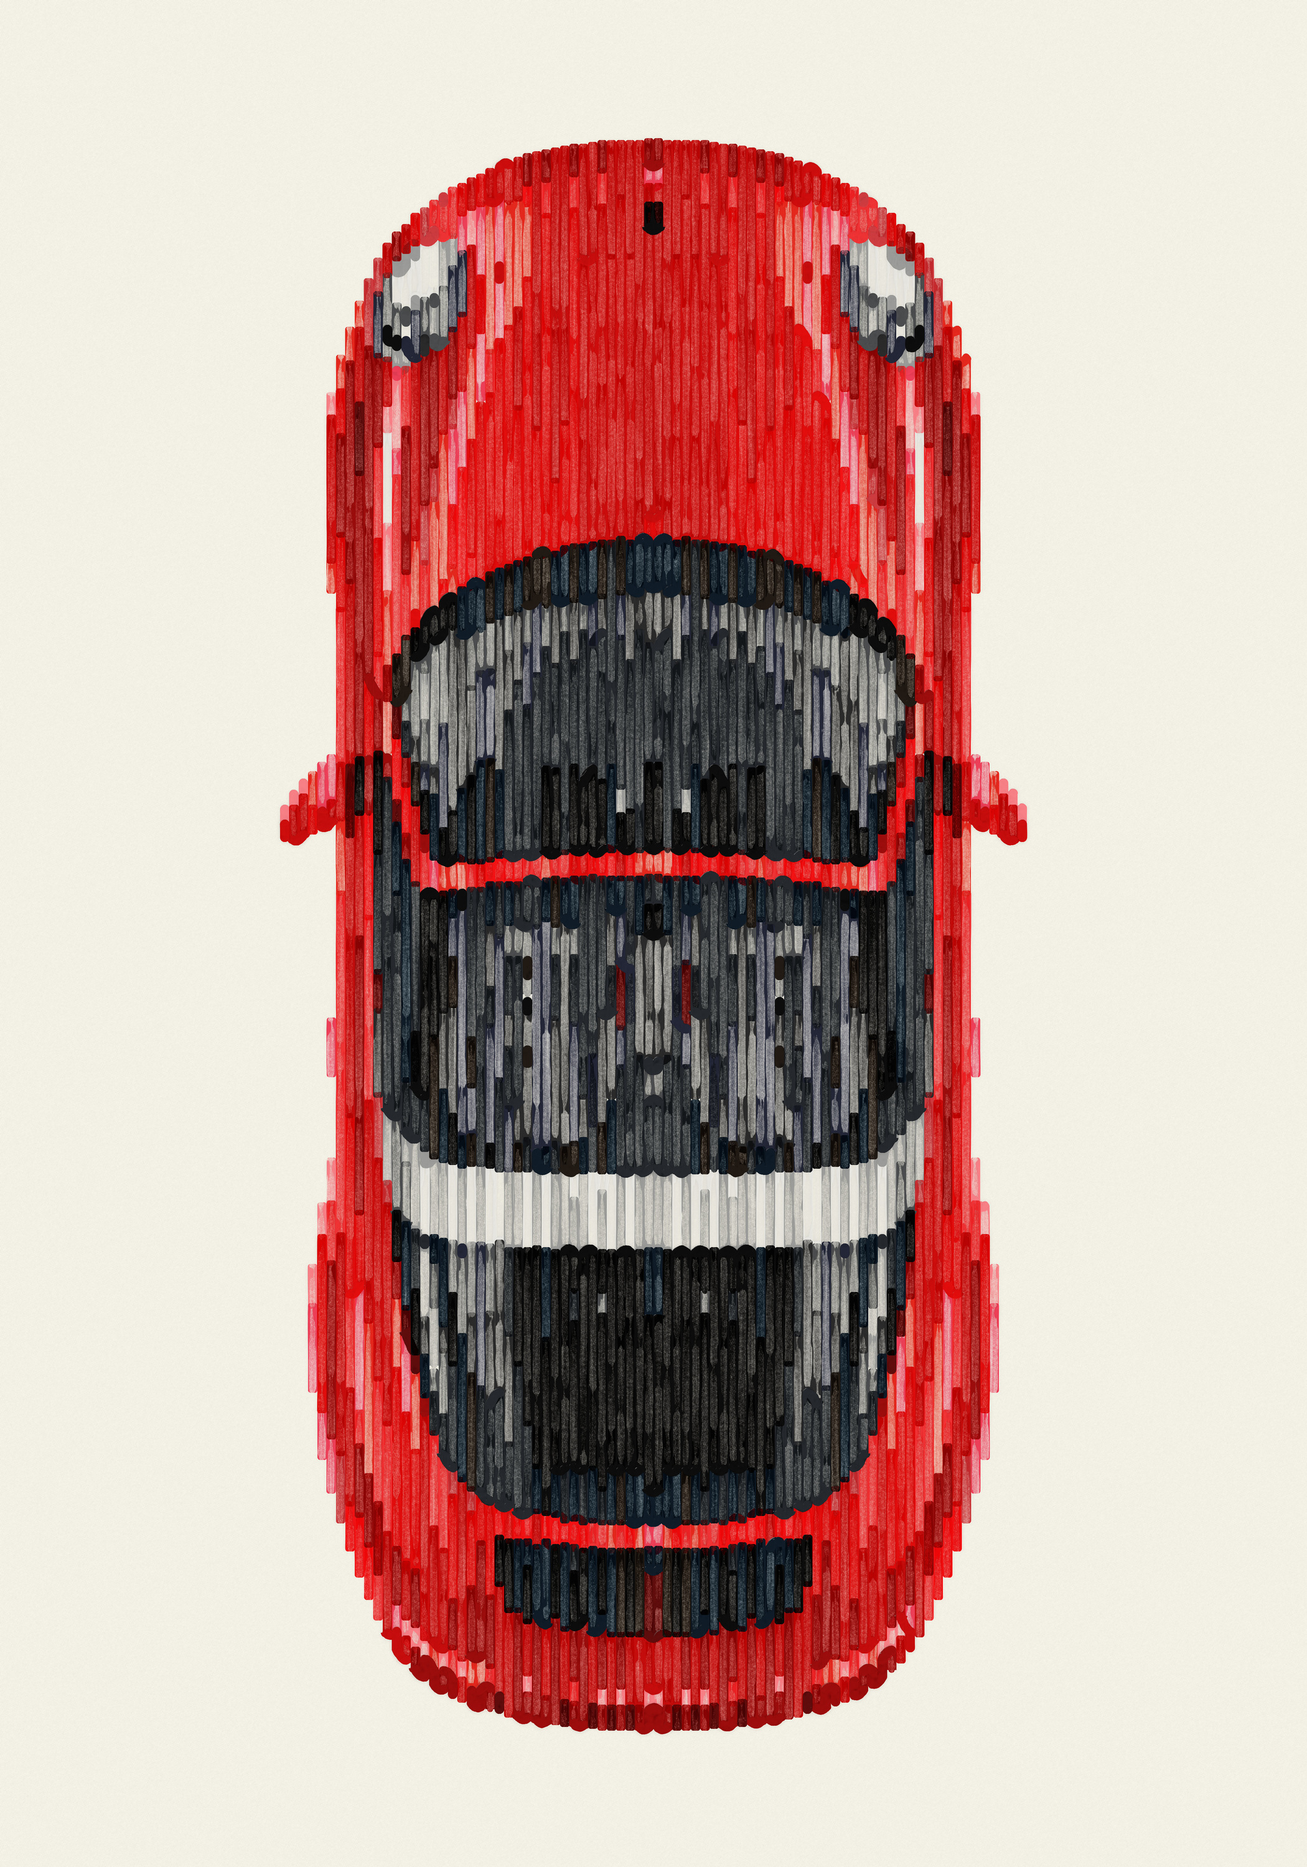
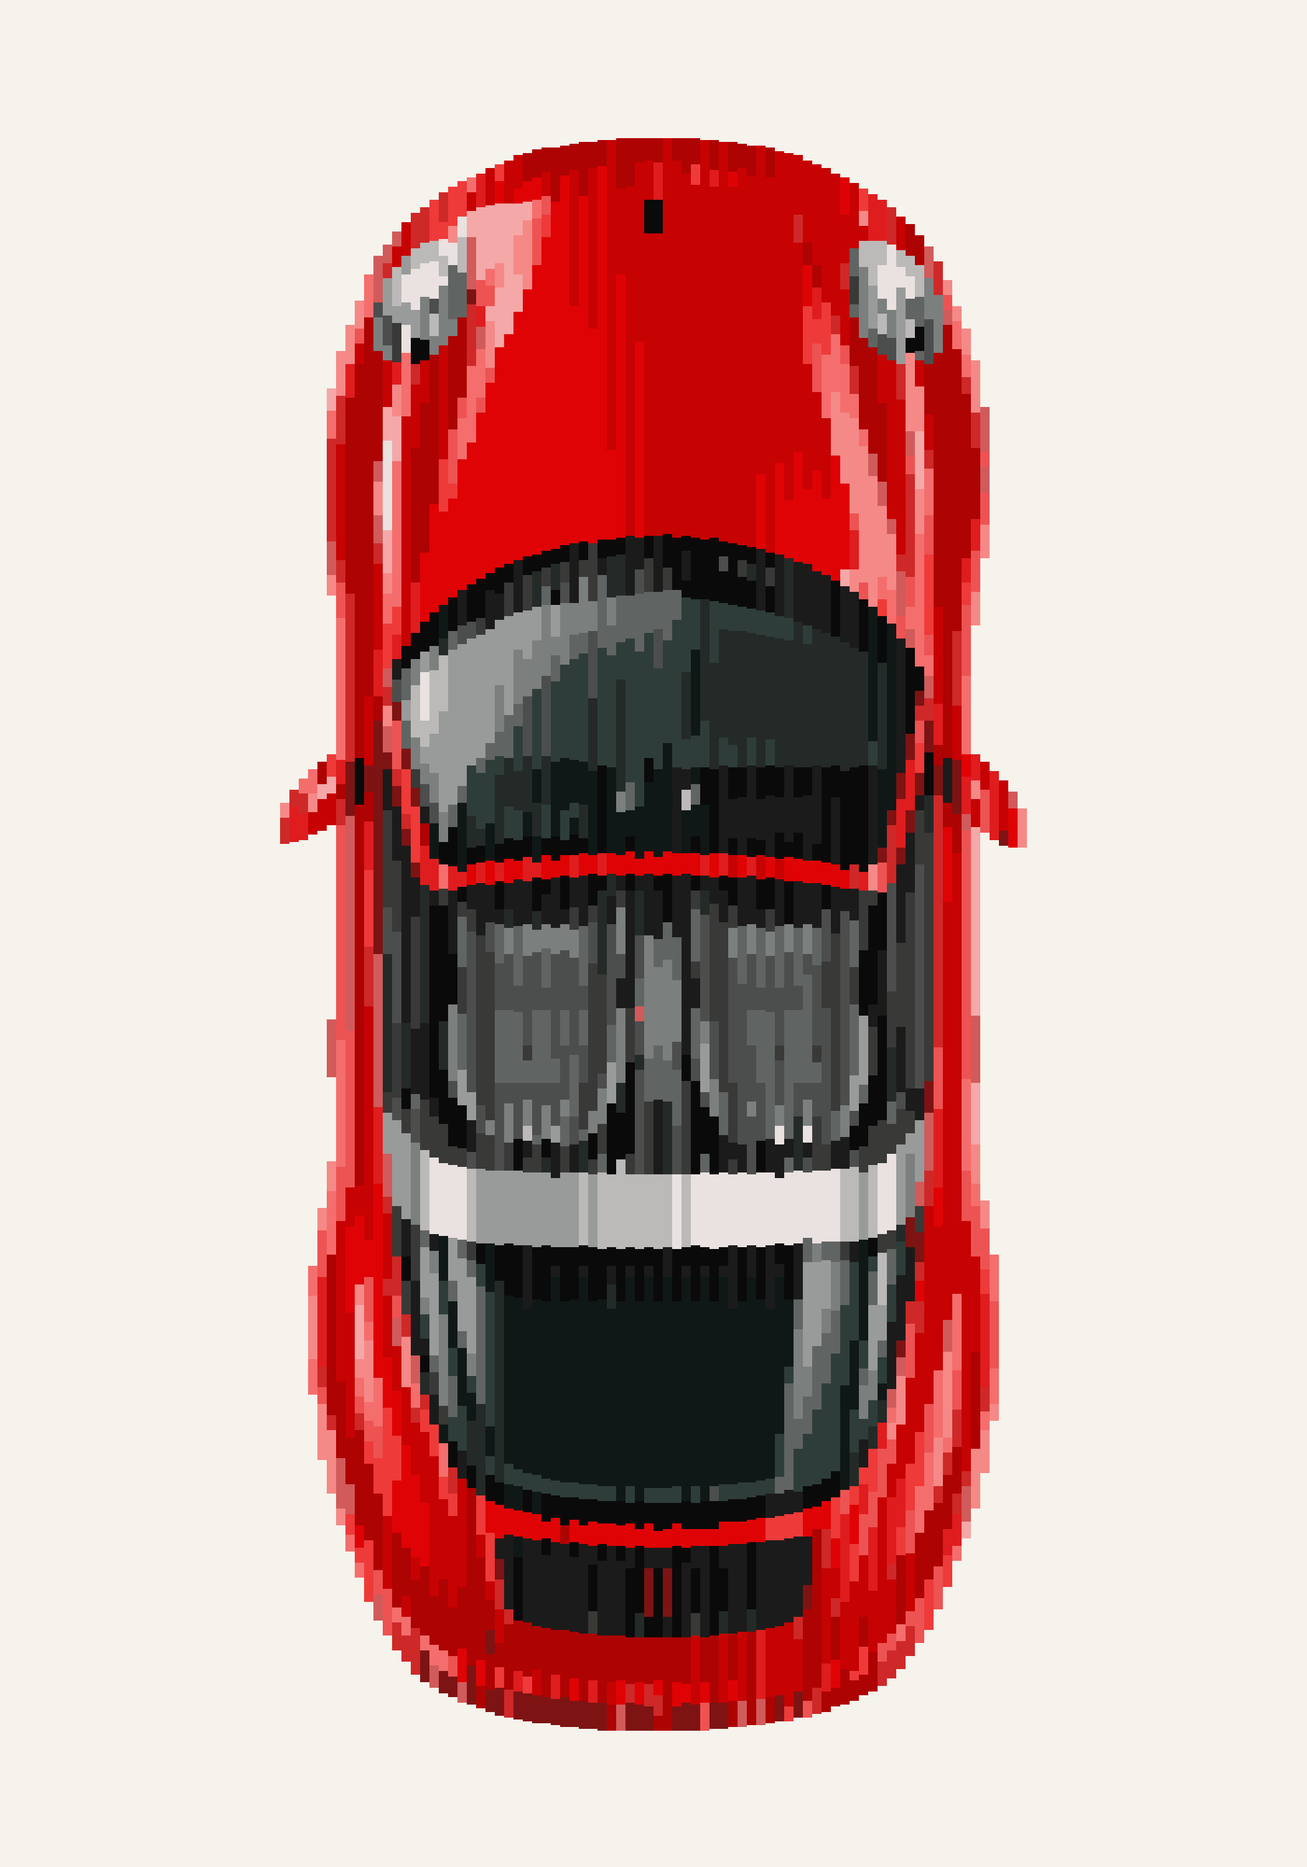
FORM-G: the Targa true to its sketch, no re-solve, no mirror
The approved json's plan as it is: jars, names, colours, coats, legs; his
own jars as hints beside the colours; only the crest off. The brush model's
re-solve had lost the glass's lights and the seats and mirrored the halves.

Changed region(s): [[0.2167, 0.062, 0.8048, 0.93]]

diff --git a/FORM-G/generator/genfpic.py b/FORM-G/generator/genfpic.py
@@ -1,0 +1,111 @@
+#!/usr/bin/env python3
+"""FORM-G: a GEN-F sketch made final TRUE TO THE SKETCH — its own legs and colours, as the owner approved them on the screen he chose.
+
+The owner, 2026-11-16, of the Targa made by genfcar.py (hyper2's re-solve through the brush model): "Claude, we have problems. You generated something wrong.
+Compare the Porsche on GEN-F and on FORM-G: the highlights on the glass are gone, the seats are gone, it all turned into mush" (`GEN-F/Screenshot 2026-11-16
+at 3.20.47 PM.png`). The brush model takes a leg for a film with the white between legs showing, so for a grey it takes a darker jar and the small lights go;
+LAB's real 3 measured a track ≈ 8 mm on the 5 mm grid (LAB/), the legs overlap and the canvas shows the jar's own colour, as GEN-F draws it. So the sketch's
+plan is the final, and only the canon is laid on it:
+
+  1. the jars as the sketch has them, their names and colours untouched (the owner, the same hour: "we have Graphite Seats … 30.json; it must be held to
+     strictly; I feel the generator also mirrored one side and put it on the other" — genfcar.py's MIRROR did); beside a colour, as its code, his own numbered
+     jar of the red classic (his shelf, app/formg/porsche-red-k.json) within NEAR of it, nearest pair first — "≈ Jar 16", a hint for the shelf, nothing changed;
+  2. CREST: the maker's crest off — the legs of a sketch colour with less than CREST_M of line near the axis go to the jar painted next to them in their column,
+     and two columns about the axis over its height in the sketch's darkest colour, a cell of its own (the owner, 2026-11-10: "no Porsche logo, but a mark one
+     cannot read");
+  3. nothing else: the legs, their snakes, the coats, the light-under-dark the sketch's. The render GEN-F's: the legs 5 mm wide, flat (est.).
+
+  python genfpic.py <sketch.json> <id> "<title>" "<sub>"   → app/formg/<id>.json, <id>.jpg"""
+import sys, os, json
+from PIL import Image, ImageDraw
+
+HERE = os.path.dirname(os.path.abspath(__file__))
+OUT = os.path.join(HERE, '..', '..', 'app', 'formg')
+SHELF = os.path.join(OUT, 'porsche-red-k.json')
+NEAR = 8.0          # a jar of his within so much of a sketch colour, CIELAB ΔE76, is that colour's jar (est.)
+CREST_M = 0.1       # a colour with less line than this, m, near the axis: the crest
+PPM = 3             # the render, px a mm
+
+
+def lab(h):
+    r, g, b = [int(h[i:i + 2], 16) / 255 for i in (1, 3, 5)]
+    f = lambda c: c / 12.92 if c <= 0.04045 else ((c + 0.055) / 1.055) ** 2.4
+    r, g, b = f(r), f(g), f(b)
+    X, Y, Z = (0.4124 * r + 0.3576 * g + 0.1805 * b) / 0.95047, 0.2126 * r + 0.7152 * g + 0.0722 * b, (0.0193 * r + 0.1192 * g + 0.9505 * b) / 1.08883
+    F = lambda t: t ** (1 / 3) if t > 216 / 24389 else (24389 / 27 * t + 16) / 116
+    return (116 * F(Y) - 16, 500 * (F(X) - F(Y)), 200 * (F(Y) - F(Z)))
+
+
+def dE(a, b):
+    return sum((p - q) ** 2 for p, q in zip(lab(a), lab(b))) ** 0.5
+
+
+def line(j):
+    return sum(abs(l[2] - l[1]) for c in j['cells'] for l in c['legs']) / 1000
+
+
+def make(sketch_path, pid, title, sub, crest=True, out=OUT):
+    sk = json.load(open(sketch_path))
+    pic = json.loads(json.dumps(sk['pic']))
+    jars = pic['jars']
+    axis = (pic['box'][0] + pic['box'][2]) / 2
+    pitch = pic['pitch']
+    say = []
+    # 2. the crest
+    mark = None
+    if crest:
+        for j in [j for j in jars if line(j) < CREST_M and all(abs(l[0] - axis) <= 2 * pitch for c in j['cells'] for l in c['legs'])]:
+            ys = [y for c in j['cells'] for l in c['legs'] for y in l[1:]]
+            mark = (min(ys), max(ys)) if mark is None else (min(mark[0], min(ys)), max(mark[1], max(ys)))
+            for c in j['cells']:
+                for x, a, b in c['legs']:
+                    lo, hi = min(a, b), max(a, b)
+                    # the jar painted next to it in its column: the leg whose end lies nearest this leg's
+                    near = min(((min(abs(min(q[1], q[2]) - hi), abs(max(q[1], q[2]) - lo)), k) for k, o in enumerate(jars) if o is not j
+                                for cc in o['cells'] for q in cc['legs'] if abs(q[0] - x) < 0.1), default=None)
+                    if near:
+                        jars[near[1]]['cells'].append({'n': 0, 'legs': [[x, a, b]]})
+            say.append(f"the crest, {j['name']} {j['hex']} ({line(j):.2f} m), off: its legs to the paint next to them")
+            jars.remove(j)
+    # 1. the jars: the sketch's own; his jar a hint beside it
+    shelf = json.load(open(SHELF))['jars']
+    pairs = sorted((dE(j['hex'], q['hex']), i, k) for i, j in enumerate(jars) for k, q in enumerate(shelf))
+    got, taken = {}, set()
+    for d, i, k in pairs:
+        if d <= NEAR and i not in got and k not in taken:
+            got[i] = (k, d)
+            taken.add(k)
+    for i, j in enumerate(jars):
+        j['code'] = f"≈ {shelf[got[i][0]]['name']}" if i in got else ''
+        say.append(f"{j['name']} {j['hex']}" + (f" ≈ {shelf[got[i][0]]['name']} {shelf[got[i][0]]['hex']}, ΔE {got[i][1]:.1f}" if i in got else ', none of his near'))
+    if mark:
+        dark = min(jars, key=lambda j: lab(j['hex'])[0])                         # the sketch's darkest colour
+        xs = [axis - pitch / 2, axis + pitch / 2]
+        dark['cells'].append({'n': 0, 'legs': [[xs[0], mark[1], mark[0]], [xs[1], mark[0], mark[1]]]})
+        say.append(f"the crest's mark: {dark['name']} {dark['hex']}, two columns at {xs[0]} and {xs[1]}, {mark[0]} … {mark[1]} mm")
+    for j in jars:
+        for n, c in enumerate(j['cells']):
+            c['n'] = n + 1
+        j['code'] = j.get('code', '')
+    legs = [l for j in jars for c in j['cells'] for l in c['legs']]
+    xs_, ys_ = [l[0] for l in legs], [y for l in legs for y in l[1:]]
+    pic.update(id=pid, title=title, sub=sub, image=f'formg/{pid}.jpg', box=[min(xs_), min(ys_), max(xs_), max(ys_)], jars=jars)
+    json.dump(pic, open(os.path.join(out, f'{pid}.json'), 'w'), separators=(',', ':'))
+    # the render: GEN-F's, the legs 5 mm wide in the list's order (light under dark), flat
+    W, H = pic['w'] * PPM, pic['h'] * PPM
+    im = Image.new('RGB', (W, H), (246, 243, 236))
+    dr = ImageDraw.Draw(im)
+    for j in jars:
+        rgb = tuple(int(j['hex'][i:i + 2], 16) for i in (1, 3, 5))
+        for c in j['cells']:
+            for x, a, b in c['legs']:
+                dr.rectangle([round((x - pitch / 2) * PPM), round((pic['h'] - max(a, b)) * PPM), round((x + pitch / 2) * PPM) - 1, round((pic['h'] - min(a, b)) * PPM) - 1], fill=rgb)
+    im.save(os.path.join(out, f'{pid}.jpg'), quality=93, subsampling=0)
+    print('\n'.join(say))
+    print(pid, 'jars', len(jars), 'a jar of his near', sum(1 for j in jars if j['code']), 'two coats', sum(1 for j in jars if j['coats'] == 2),
+          'cells', sum(len(j['cells']) for j in jars), 'legs', len(legs), 'box', pic['box'])
+    return pic
+
+
+if __name__ == '__main__':
+    make(*sys.argv[1:5])

diff --git a/FORM-G/generator/targa.py b/FORM-G/generator/targa.py
@@ -1,20 +1,15 @@
 #!/usr/bin/env python3
 """FORM-G: the red 911 Targa from above, graphite seats, on 70 × 100 — GEN-F's sketch the owner approved (2026-11-16: "I put together at once Graphite Seats in a
-Glossy Red Targa · GEN-F · 70x100 · 30.json for FORM-G"), its screen 2, 30 colours asked, 25 by the canon; 400 × 853 mm. genfcar.py's GenFCar: the ground bare,
-the right half the left's mirror, the crest off and its two Black columns.
+Glossy Red Targa · GEN-F · 70x100 · 30.json for FORM-G"), its screen 2, 30 colours asked, 25 by the canon; 400 × 853 mm. True to the sketch (genfpic.py): its
+legs and colours, his own jars by name, the crest off and its two Black columns. (Its first make, genfcar.py's re-solve through the brush model, lost the
+glass's lights and the seats: "it all turned into mush".)
 
-  python targa.py 6 2 porsche-targa.jpg
-  python export_formg.py porsche-targa porsche-targa.jpg.pkl"""
-from redcar import main
-from genfcar import GenFCar
+  python targa.py"""
+import os
+from genfpic import make
 
-
-class Targa(GenFCar):
-    SKETCH = '../../GEN-F/Graphite Seats in a Glossy Red Targa · GEN-F · 70x100 · 30.json'
-    KEEP = 'porsche-targa.jars.json'
-    MIRROR = True
-    CREST = True
-
+HERE = os.path.dirname(os.path.abspath(__file__))
 
 if __name__ == '__main__':
-    main(Targa, 'porsche-targa.jpg')
+    make(os.path.join(HERE, '..', '..', 'GEN-F', 'Graphite Seats in a Glossy Red Targa · GEN-F · 70x100 · 30.json'), 'porsche-targa', 'Porsche Targa, red',
+         'hyperrealism, 70 × 100, the red 911 Targa from above, graphite seats, 85 cm long; GEN-F\'s sketch, its colours by his jars')

diff --git a/FORM-G/generator/README.md b/FORM-G/generator/README.md
@@ -17,7 +17,8 @@ A plan is one grid of columns 5 mm apart, the brush's. Every column is solved on
 | `redcarv3.py`, `porsche-red-v3.jars.json` | the red classic's v.3 (2026-11-11), a card after v.2: half the jar changes — v.2's 9 fixed jars and 15 of its 32 made ones, every one a v.2 jar under its own number (`export_formg.py` names them as v.1 does), chosen so that every jar that goes lies within a mix of two neighbouring columns of those that stay (CIEDE2000, weighted by its line, est.); RedCarK as it is, the whole picture planned again with them. 24 jars, 31 lines of the list (v.2: 41, 62) |
 | `redcarv4.py` | the red classic's v.4 (2026-11-13), a card after v.3: v.3's json to the leg and its shadow beside the car in Black, two coats, the list's last two lines (`last`), over the old lines on the owner's 70 × 100 (`FORM-G/IMG_6176.JPG`, `FORM-G/shadow.png`): the car's silhouette moved 80 mm right (what the brush reaches at his place, left −60), the car taken out of it 6 mm off along a column, 5 mm above its lowest line; the render v.3's jpg with the shadow laid by brushsim over it. No photo, no plan pkl: `python redcarv4.py` |
 | `headlight.py`, `porsche-headlight.jars.json` | the classic red 911's headlight, a detail on 60 × 80 (2026-11-16), GEN-F's first approved sketch made final: `racecark.py`'s RaceFaceK (the brush model, Kuzya's B and C, no gloss) with no geometry by hand — the whole picture painted, its size and place the sketch's (540 × 720 mm, 30 in, 40 down); the carry kept within the red paint or the metal; its 14 jars the sketch's colours, each first made to measure (`invert`), then the owner's own numbered jar of the classic whose dried leg lies within 8 of it (nearest pair first, est.), the rest new (`New 1`, `New 2`); none pruned |
-| `genfcar.py`, `targa.py`, `porsche-targa.jars.json` | GEN-F's sketches made final (2026-11-16), headlight.py's way made general for a picture on a plain ground: RaceFaceK on no geometry by hand, its size and place the sketch's, the ground bare; `MIRROR` the right half the left's mirror; `CREST` the crest off, two Black columns there; the sketch's colours his own jars where one's dried leg is within 8, the rest new; jars the eye cannot tell apart one (Kuzya's D). `targa.py`: the red Targa from above on 70 × 100, 20 jars, 15 his — held for its size (CHANGELOG) |
+| `genfpic.py` | **GEN-F's sketches made final, true to the sketch** (2026-11-16, the owner: "it must be held to strictly"): the approved json's plan as it is — jars, names, colours, coats, legs — his own jar within ΔE 8 a hint beside a colour (`code`), the crest off and its mark in the sketch's darkest colour; the render flat, GEN-F's. `targa.py` by it |
+| `genfcar.py`, `porsche-targa.jars.json` | the first way, NOT for GEN-F's pictures since: hyper2's re-solve through the brush model, MIRROR, CREST, his jars by dried legs — on the Targa it lost the glass's lights and the seats ("it all turned into mush") and mirrored the halves | GEN-F's sketches made final (2026-11-16), headlight.py's way made general for a picture on a plain ground: RaceFaceK on no geometry by hand, its size and place the sketch's, the ground bare; `MIRROR` the right half the left's mirror; `CREST` the crest off, two Black columns there; the sketch's colours his own jars where one's dried leg is within 8, the rest new; jars the eye cannot tell apart one (Kuzya's D). `targa.py`: the red Targa from above on 70 × 100, 20 jars, 15 his — held for its size (CHANGELOG) |
 | `racecark.py` | the face's v.2 Kuzya (2026-11-10), a card of its own, the first kept: `RaceFace` with Kuzya's audit (`FORM-G/Rembrandt_FORM-G_GT_Color_Tone_Audit_2026-11-10.pdf`) — no hue apart on the red body, a cut's cost by the form (dear on flat paint, cheap where it turns), and jars whose dried legs the brush model cannot tell apart (dE under 2.5) one; the same target, geometry and starting jars |
 | `distance_core.py`, `far.py`, `farcar.py` | the view from 3 and 6 m: S-CIELAB's widths of blur, a model, not a measurement |
 | `gwagongeo.py`, `gwagon.py`, `farwagon.py` | OPM-G's G-wagon on 60 × 60: its outline off a white ground, the badges off; the grille's slats on the grid, the bull bar's chrome, the headlights, the seats' red by geometry; 36 jars at most, every jar 1 m of line at least; no span under 12 mm; the view from 3 and 6 m |
@@ -41,8 +42,7 @@ python racecark.py 6 2 porsche-race-k.jpg   # its v.2 Kuzya
 python redcarv3.py 6 2 porsche-red-v3.jpg   # the classic's v.3, v.2's jars halved; its jpg to 3 px/mm in app/formg/
 python export_formg.py porsche-red-v3 porsche-red-v3.jpg.pkl
 python export_formg.py porsche-race-k porsche-race-k.jpg.pkl
-python targa.py 6 2 porsche-targa.jpg          # GEN-F's Targa, 70 × 100 (genfcar.py)
-python export_formg.py porsche-targa porsche-targa.jpg.pkl
+python targa.py                                # GEN-F's Targa, 70 × 100, true to its sketch (genfpic.py): app/formg/porsche-targa.json and .jpg
 python headlight.py 6 2 porsche-headlight.jpg     # GEN-F's headlight, 60 × 80; its jpg to 3 px/mm in app/formg/
 python export_formg.py porsche-headlight porsche-headlight.jpg.pkl
 python gwagon.py 6 2 gwagon.jpg      # OPM-G's: its plan into app/opmg/
@@ -56,7 +56,7 @@ python farwagon.py gwagon.jpg gwagon_distance.jpg
 
 A new picture: its own `*geo.py` and planner, a name in `FORMG_LIB` (`app/src/formgplan.js`), its json and a 3 px/mm jpg in `app/formg/`.
 
-**GEN-F first** (2026-11-16): the owner sketches a new picture on GEN-F (`app/genf.html`) — the format, the colours — and approves it; its json in `../../GEN-F/` gives the picture's size and place on the canvas, the colours he saw and their count, and the box of the picture in his illustration. The final work starts from there (`../../GEN-F/README.md`).
+**GEN-F first** (2026-11-16): the owner sketches a new picture on GEN-F (`app/genf.html`) and approves one screen; its json in `../../GEN-F/` holds the whole plan he saw. **The final keeps to it strictly** (`genfpic.py`): no re-solve, no mirror; only the canon (the crest) and his jars as hints (`../../GEN-F/README.md`).
 
 A picture must fit the machine's reach, 865 × 568 mm, with the carriage's own run past a leg's end: the elbow's sweep takes it about 20 mm at the bottom. `placeRange` says where the canvas may lie; FORM-G refuses what would be pressed into a wall. So the Porsche is 85 cm long, its exhaust 9 mm short (`LOWEST`).
 

diff --git a/GEN-F/README.md b/GEN-F/README.md
@@ -14,10 +14,11 @@ sketch, approve it and give it to you for the final work? we would save a lot of
 2. **APPROVE** saves a json: `<picture> · GEN-F · <format> · <colours>.json`. It goes here.
    The illustration itself goes into `FORM-G/`, as before (others' pictures and renders stay out
    of git there, `.gitignore`).
-3. The owner tells Claude: "GEN-F, <the file>". Claude reads it and makes the picture in
-   `FORM-G/generator/` — a `*geo.py` for its form (the seams, the symmetry), the jars to measure
-   by the brush model, the canon (Jar 6 in Layer 2, MARKS beside the canvas) — then FORM-G's
-   card, as the generator's README says.
+3. The owner tells Claude: "GEN-F, <the file>". Claude makes it FORM-G's card **true to the
+   sketch** (`FORM-G/generator/genfpic.py`): the approved screen's own jars, colours and legs, no
+   re-solve and no mirror (the owner, 2026-11-16: "it must be held to strictly"); only the canon —
+   the crest off — and his own numbered jars as hints beside the colours ("≈ Jar 16"). Then its
+   place on the machine: a picture longer than the reach lets needs his word (PRESS_OK).
 
 ## Two more keys
 
@@ -51,4 +52,4 @@ same paint his jar already has, that jar's number.
 |---|---|
 | `Classic Red Porsche Headlight Detail · GEN-F · 60x80 · 14.json` (2026-11-16, "I suddenly approved 60 × 80") | FORM-G's `porsche-headlight`, `FORM-G/generator/headlight.py`: 12 of its 14 colours the owner's jars of the red classic, 2 new |
 | `Classic Red 911 Coupe Profile · GEN-F · 60x80 · 38.json` (2026-11-16) | waiting: its motion blur, the layer under it, tried on GEN-F first |
-| `Graphite Seats in a Glossy Red Targa · GEN-F · 70x100 · 30.json` (2026-11-16, screen 2) | `FORM-G/generator/targa.py` (genfcar.py): 20 jars, 15 his; held for its size, 853 mm wants ≈ 11 mm past the reach |
+| `Graphite Seats in a Glossy Red Targa · GEN-F · 70x100 · 30.json` (2026-11-16, screen 2) | FORM-G's `porsche-targa`, true to the sketch (`targa.py`, genfpic.py): 24 colours, 13 with a jar of his near; 853 mm, its bottom pressed 11.7 mm (his "keep 853") |

diff --git a/CHANGELOG.md b/CHANGELOG.md
@@ -5,6 +5,15 @@ Machine measurements stay in RUBENS: `../Rubens/CALIBRATION.md`.
 
 ## After v.1.2.4 — 2026-11-16
 
+- **FORM-G's Targa true to its sketch** (2026-11-16; the owner, of the Targa by genfcar.py, `GEN-F/Screenshot 2026-11-16 at 3.20.47 PM.png`: "Claude, we have
+  problems. You generated something wrong. Compare the Porsche on GEN-F and on FORM-G: the highlights on the glass are gone, the seats are gone, it all turned
+  into mush"; then: "we have Graphite Seats … 30.json; it must be held to strictly. I feel the generator also mirrored one side and put it on the other" — it
+  did, `MIRROR`). The cause: hyper2's re-solve takes a leg for a film with the white between legs showing, so for a grey it took a darker jar and the small
+  lights went; LAB's real 3 measured a track ≈ 8 mm on the 5 mm grid — the legs overlap, the canvas shows the jar's own colour, as GEN-F draws it.
+  `FORM-G/generator/genfpic.py`: the sketch's plan IS the final — its jars, names, colours, coats, order and legs untouched; beside a colour, as its `code`, his
+  own jar of the red classic within ΔE 8 ("≈ Jar 16", a hint; 13 of 24); the canon's crest alone — its one gold leg, 18 mm, to the red next to it, and two legs of
+  the sketch's darkest colour about the axis there; the render GEN-F's, flat. Compared with the json: 1920 legs the sketch's, 22 of 24 jars leg for leg, the
+  two others the crest's; no mirror. ≈ 11 h 05 min (est.); its box and PRESS_OK as before. `targa.py` by it; genfcar.py kept, not used for it.
 - **FORM-G: the Targa at 853 mm, its bottom pressed, the first card** (2026-11-16; asked whether to make it 843 as the classic or press it, the owner: "keep 853
   mm — it goes fine for us, there is 1 cm more in reserve"; of "no place for the canvas", first taken for the library: "how so? :))"). `PRESS_OK` now
   `formgplan.js`'s, the tests' too, and `'porsche-targa': 12`; a picture with no room but its PRESS_OK first laid as high as the top wall lets it (`placeNow`):
